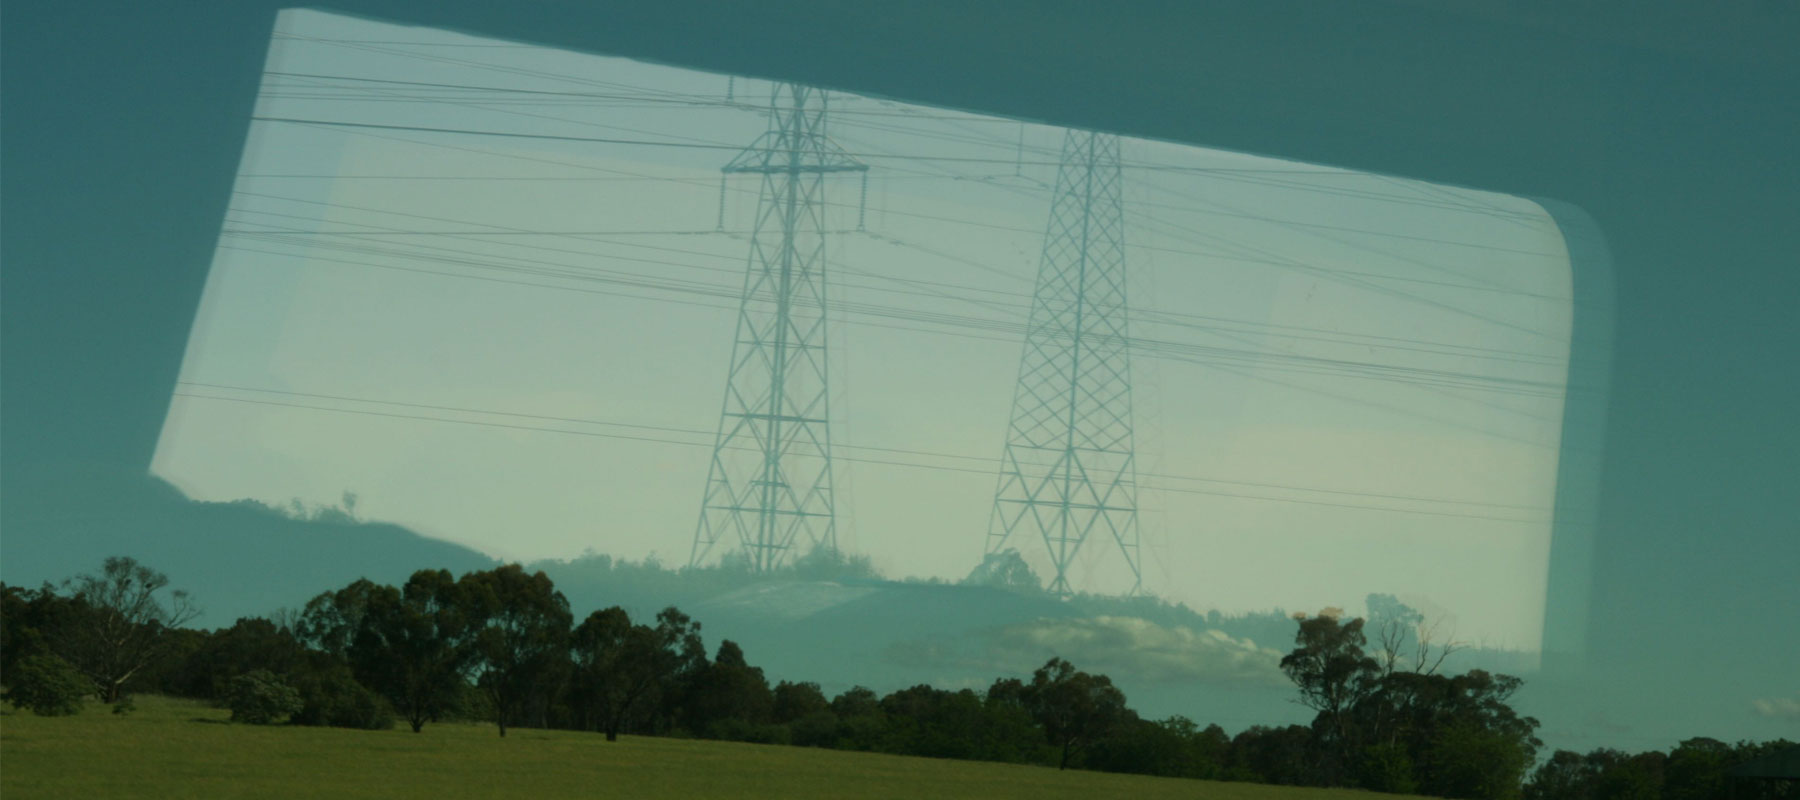
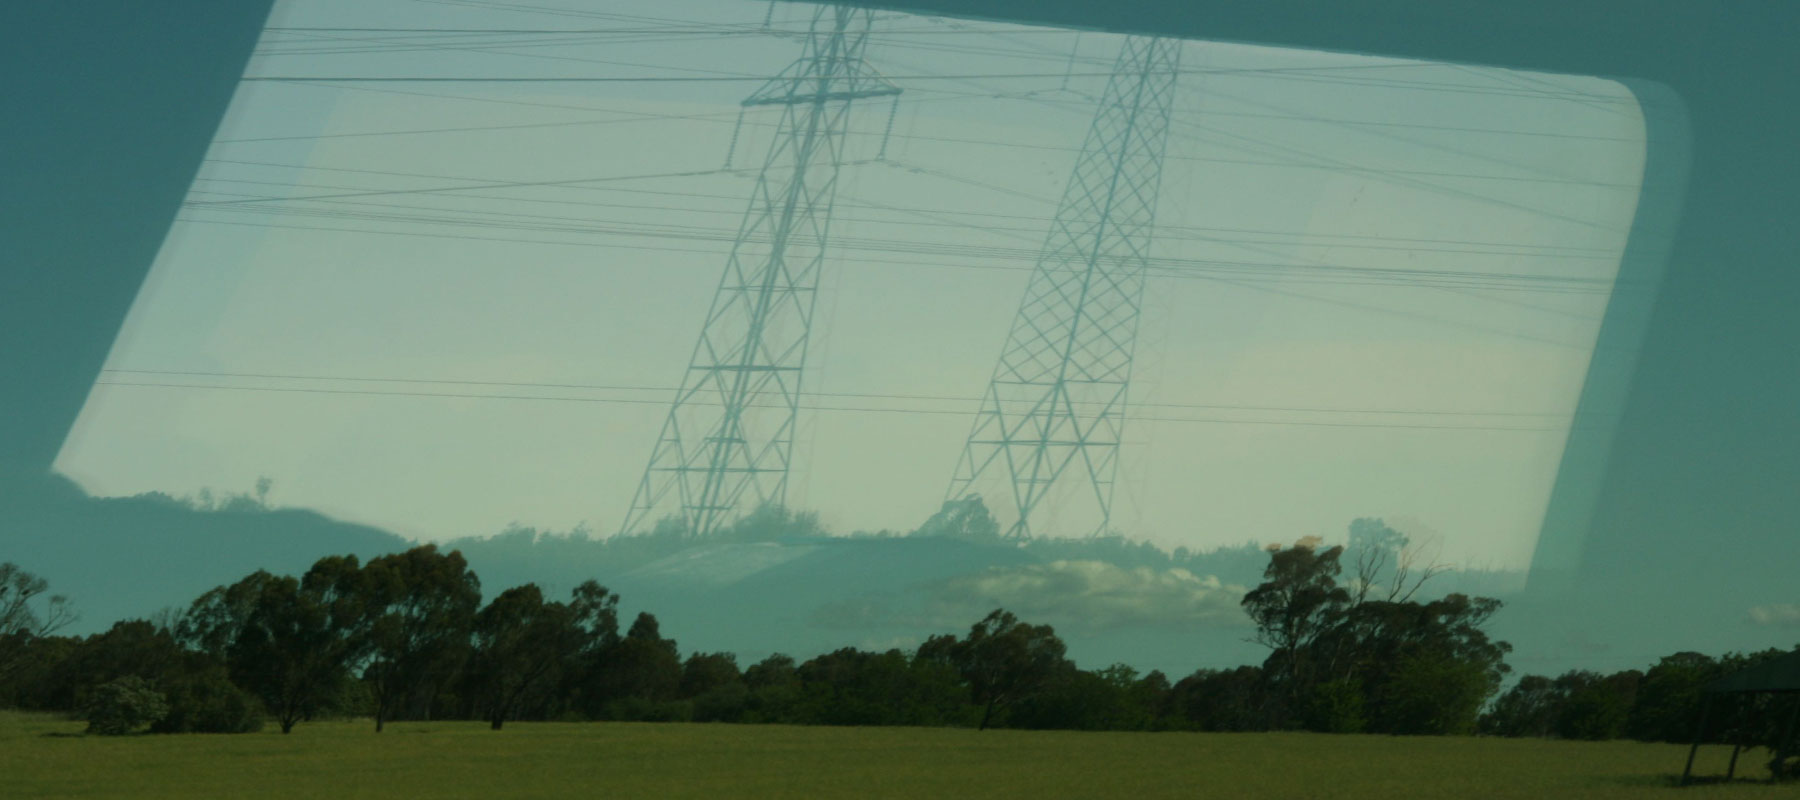
got page to show all of the users created questions, added some buttons to 'My Questions'.

diff --git a/app/assets/stylesheets/bootstrap_and_overrides.css.scss b/app/assets/stylesheets/bootstrap_and_overrides.css.scss
@@ -21,35 +21,36 @@ hr { margin: 3px;}
 }
 body {   
   background-color: #cccccc;
- }
-
-.image_holder{
-  position:absolute;
-  top: 0px;
-  left: 0px;
-  width: 100%; height: 100%;
-  z-index: -2;
-}
-
-#background_image_to_slant{
-  position: relative;
-  overflow: hidden;
-  width: 100%; height: 100%;
-}
-
-#background_image_to_slant:after {// weird hack to transform a background image
-  content: "";
-  position: absolute;
-  width: 200%;
-  height: 200%;
   background-image: url(/images/opt_1800x800/1.jpg);
-  transform-origin: 0 0;
-  -webkit-transform: skewX(-15deg); /* Chrome, Safari, Opera */
-  -moz-transform: skewX(-15deg);
-  -ms-transform: skewX(-15deg); /* IE 9 */
-  transform: skewX(-15deg); /* Standard syntax */
-  // transition: background 2s ease-out;  // works sortof if you have another state https://css-tricks.com/almanac/properties/t/transition/
 }
+
+// .image_holder{
+//   position:absolute;
+//   top: 0px;
+//   left: 0px;
+//   width: 100%; height: 100%;
+//   z-index: -2;
+// }
+
+// #background_image_to_slant{
+//   position: relative;
+//   overflow: hidden;
+//   width: 100%; height: 100%;
+// }
+
+// #background_image_to_slant:after {// weird hack to transform a background image
+//   content: "";
+//   position: absolute;
+//   width: 200%;
+//   height: 200%;
+//   background-image: url(/images/opt_1800x800/1.jpg);
+//   transform-origin: 0 0;
+//   -webkit-transform: skew(-15deg,0deg); /* Chrome, Safari, Opera */
+//   -moz-transform: skew(-15deg,0deg);
+//   -ms-transform: skew(-15deg,0deg); /* IE 9 */
+//   transform: skew(-15deg,0deg); /* Standard syntax */
+// }
+
 .splash_size{ font-size: 400%; }
 
 .navbar-inner{ 

diff --git a/app/models/user.rb b/app/models/user.rb
@@ -19,7 +19,7 @@ class User < ActiveRecord::Base
   
   attr_accessor :address
   geocoded_by :ip_address
- # after_validation :geocode, :if => lambda{ |obj| obj.ip_address_changed? }
+ after_validation :geocode, :if => lambda{ |obj| obj.ip_address_changed? }
   reverse_geocoded_by :latitude, :longitude
   after_validation :perform_reverse_geocode  # auto-fetch address
 

diff --git a/app/controllers/users_controller.rb b/app/controllers/users_controller.rb
@@ -34,8 +34,8 @@ class UsersController < ApplicationController
   end
 
   def show 
-    #@questions = Question.all
     @user = User.find(params[:id]) 
+    @questions = Question.where("user_id":@user)
   end
 
   def create
